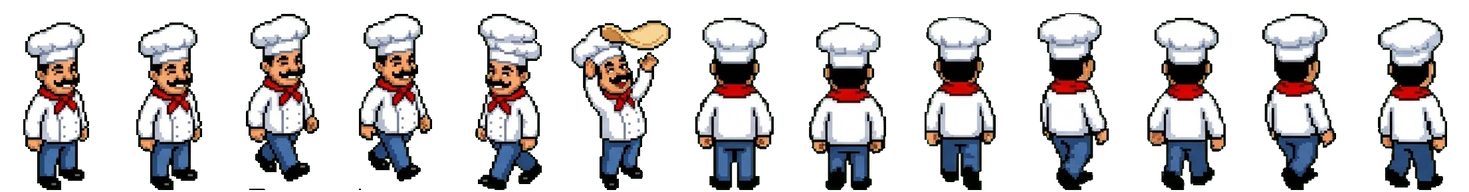
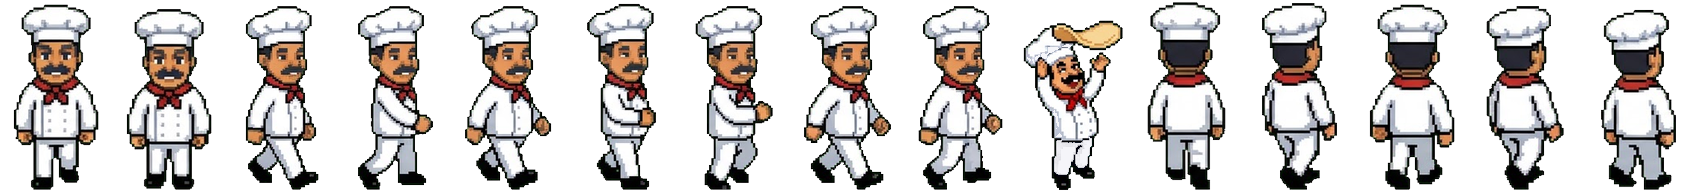
Pizzabaas: kok loopt echt (nieuw Gemini-loopvel), plaatjes per vel in KOK.vel/OBER.vel
Claude-Session: https://claude.ai/code/session_01A1NZDKEqH4AvFTuhgNYDbP

diff --git a/pizzabaas.html b/pizzabaas.html
@@ -541,20 +541,25 @@ function ober(o) {
   poppetje({ kleur: '#222', huid: '#f0c7a2', haar: '#3b2414', loopT: o.loopT, kijk: o.kijk }, { draagt: o.draagt, armen: o.draagt ? 0.8 : 0 });
   g.restore();
 }
-// kok en ober zijn eigen ontwerpen (Gemini, uitgeknipt): pizza/kok.png en pizza/ober.png = 13 plaatjes van 113 x 192 naast elkaar:
-// 0-1 staan, 2-3 lopen (naar links, gespiegeld = naar rechts), 4 schuin rechts, 5 iets bijzonders (deeg opgooien / stolp optillen),
-// 6 staan op de rug, 7-12 lopen naar achteren
-const KOK = new Image(); KOK.src = 'pizza/kok.png';
-const OBER = new Image(); OBER.src = 'pizza/ober.png';
+// kok en ober zijn eigen ontwerpen (Gemini, uitgeknipt): plaatjes van 113 x 192 naast elkaar. Per vel staat hieronder welk
+// plaatje wat is: staan (van voren), opzij (loopcyclus; `rechts` = de neus wijst naar rechts, anders naar links, gespiegeld = de
+// andere kant op), bijzonder (deeg opgooien / stolp optillen), rug (staan op de rug) en rugLoop (lopen naar achteren)
+const KOK = new Image(); KOK.src = 'pizza/kok.png';   // pizza/kok2-gemini.jpg (lopen) + het deeg van pizza/kok-gemini.jpg
+const OBER = new Image(); OBER.src = 'pizza/ober.png'; // pizza/ober-gemini.jpg
+KOK.vel = { staan: 0, opzij: [2, 3, 4, 5, 6, 7, 8], rechts: true, bijzonder: 9, rug: 10, rugLoop: [11, 12, 13, 14], fps: 10 };
+OBER.vel = { staan: 0, opzij: [2, 3], rechts: false, bijzonder: 5, rug: 6, rugLoop: [7, 8, 9, 10, 11, 12], fps: 7 };
 const SW = 113, SH = 192;
 function figuur(img, p, bijzonder, rug) {
-  let f = rug ? 6 : 0, spiegel = false;
-  if (bijzonder) f = 5;
+  const v = img.vel;
+  let f = rug ? v.rug : v.staan, spiegel = false;
+  if (bijzonder) f = v.bijzonder;
   else if (p.loopT > 0) {
-    const c = Math.cos(p.kijk ?? 0), s = Math.sin(p.kijk ?? 0), stap = Math.floor(p.loopT * 7);
-    if (Math.abs(c) > Math.abs(s)) { f = 2 + stap % 2; spiegel = c > 0; }
-    else if (s < 0) f = 7 + stap % 6;
-    else f = 2 + stap % 2;
+    const c = Math.cos(p.kijk ?? 0), s = Math.sin(p.kijk ?? 0), stap = Math.floor(p.loopT * v.fps);
+    if (s < 0 && -s > Math.abs(c)) f = v.rugLoop[stap % v.rugLoop.length]; // weg van de kijker
+    else { // opzij, en ook naar voren (een loopcyclus naar de kijker toe is er nog niet): opzij in de richting waar hij heen gaat
+      if (Math.abs(c) > 0.15) p.opzij = c > 0 ? 1 : -1;
+      f = v.opzij[stap % v.opzij.length]; spiegel = (p.opzij || 1) > 0 != v.rechts;
+    }
   }
   const h = 1.85 * T, w = h * SW / SH;
   g.save(); if (spiegel) g.scale(-1, 1);

diff --git a/pizza/CLAUDE.md b/pizza/CLAUDE.md
@@ -18,7 +18,7 @@ achtergrond vooraf getekend (`achter`: rood-geel-wit geblokte vloer, grijs-witte
 (`RAND`), stoelen met gestreepte zitting (`stoel`), grijze tafels, borden (`bord`), poppetjes van bovenaf met kijkrichting (`poppetje`, `kijk`).
 Paneel rechts (liggend) of onder (staand): zwart schermpje `#lcd` (`balk`) en een 3x3 knoppenraster `#raster` (`tekenKnoppen`).
 Per oven een kok (`maakOven`, `stapOven`): deeg opgooien aan de werkbank (`BANK`, `DEEG`), inschuiven, bakken, op het uitgiftepunt zetten
-(`UITGIFTE`: stalen plaat met belletje op de toonbank, direct rechts van de laatste werkbank), daar haalt een ober hem op. Kok en ober zijn eigen Gemini-ontwerpen: `pizza/kok.png` en `pizza/ober.png` (13 plaatjes van 113x192: 0-1 staan, 2-3 lopen naar links (gespiegeld = rechts), 4 schuin, 5 deeg opgooien / stolp optillen bij het opdienen (`serveer`), 6 op de rug, 7-12 lopen naar achteren; uitgeknipt uit `pizza/*-gemini.jpg` met groen als achtergrond, de rugrij geschaald naar dezelfde lengte; `figuur`). Opslag per speler in `pizzabaas:<naam>`. `#tegel` = plaatje.
+(`UITGIFTE`: stalen plaat met belletje op de toonbank, direct rechts van de laatste werkbank), daar haalt een ober hem op. Kok en ober zijn eigen Gemini-ontwerpen, plaatjes van 113x192 naast elkaar; welk plaatje wat is staat per vel in `KOK.vel` / `OBER.vel` (`figuur`). `pizza/kok.png` (15): 0-1 staan, 2-8 loopcyclus opzij met de neus naar rechts (gespiegeld = links; ook gebruikt voor lopen naar voren, want die cyclus is er nog niet), 9 deeg opgooien (van het oude vel, broek wit gemaakt), 10 op de rug, 11-14 lopen naar achteren; uit `pizza/kok2-gemini.jpg` (witte broek) + `pizza/kok-gemini.jpg`. `pizza/ober.png` (13, oud vel `pizza/ober-gemini.jpg`): 0-1 staan, 2-3 lopen naar links, 4 schuin, 5 stolp optillen bij het opdienen (`serveer`), 6 op de rug, 7-12 lopen naar achteren. Uitknippen met `extra/knip_figuren.py`. Opslag per speler in `pizzabaas:<naam>`. `#tegel` = plaatje.
 Pizza's (📖, `toonKaart`, `toonMaak`): `S.menu` = lijst { naam, prijs, stukjes: [{ i, x, y, r }] } (max `MAXMENU`; oude opslag krijgt een
 Margherita). Ingrediënten in `ING` (smaak `f` = [vet, zoet, zout, pittig] per stukje, inkoop `k`, soort `s`: it/groen/vlees/vis/gek) met
 plaatjes uit `pizza/ingredienten.png` (20 x 64x64 uit de Kenney food-kit, volgorde van `ING`). Soorten klanten in `SOORT` (wil, budget,

diff --git a/pizza/PLAN.md b/pizza/PLAN.md
@@ -66,7 +66,8 @@ tafels slepen, jukebox 2x2. Punten 6 en 7 wachten op nieuwe Gemini-vellen van Ma
 Algemene regels: `uitleg/gemini-en-plaatjes.md`. Eén opdracht per keer, in deze volgorde: A, B, C, D.
 Altijd het oude vel (`pizza/kok-gemini.jpg` / `pizza/ober-gemini.jpg`) meesturen, zodat het hetzelfde figuurtje blijft.
 
-**A. Kok, loopvel** (tegen het moonwalken):
+**A. Kok, loopvel** (tegen het moonwalken). Gedaan (25 okt): `pizza/kok2-gemini.jpg`. Gemini maakte rij 1 (7 stappen opzij) goed,
+maar geen lopen naar de kijker toe, en gaf hem een witte broek. Zie de les bij B.
 "Maak een nieuw vel met spelfiguurtjes van precies deze kok (zelfde pixelart-stijl, kleren, snor, muts en grootte als op het
 plaatje). Zet ze in een net raster: 3 rijen, elk figuurtje even groot en met ruimte ertussen, niets overlapt.
 Rij 1: 6 plaatjes, lopen precies van opzij (profiel, neus naar rechts): hak neer, doorzakken, been passeert, omhoog, andere hak
